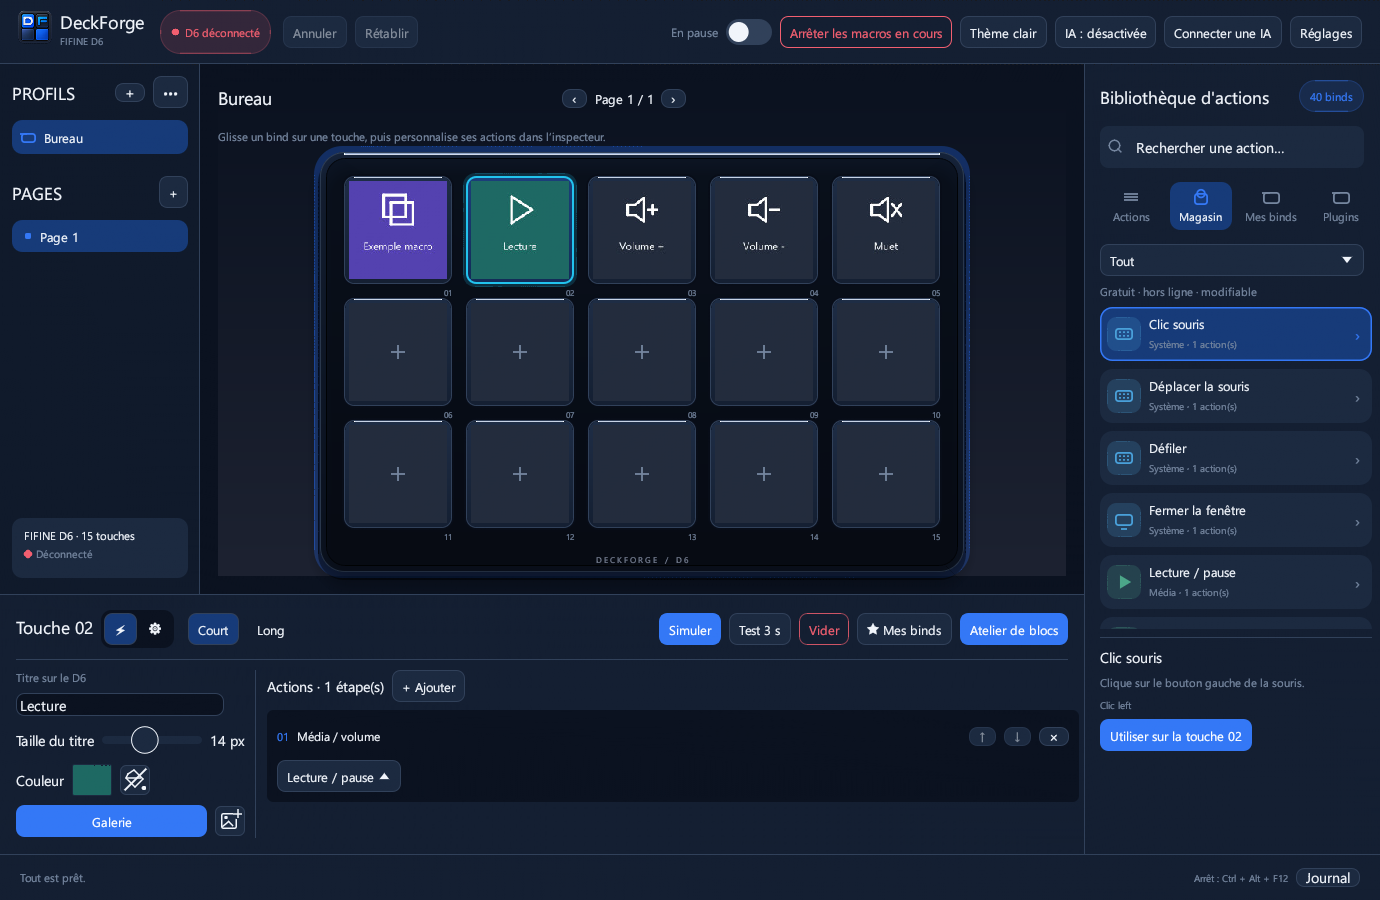
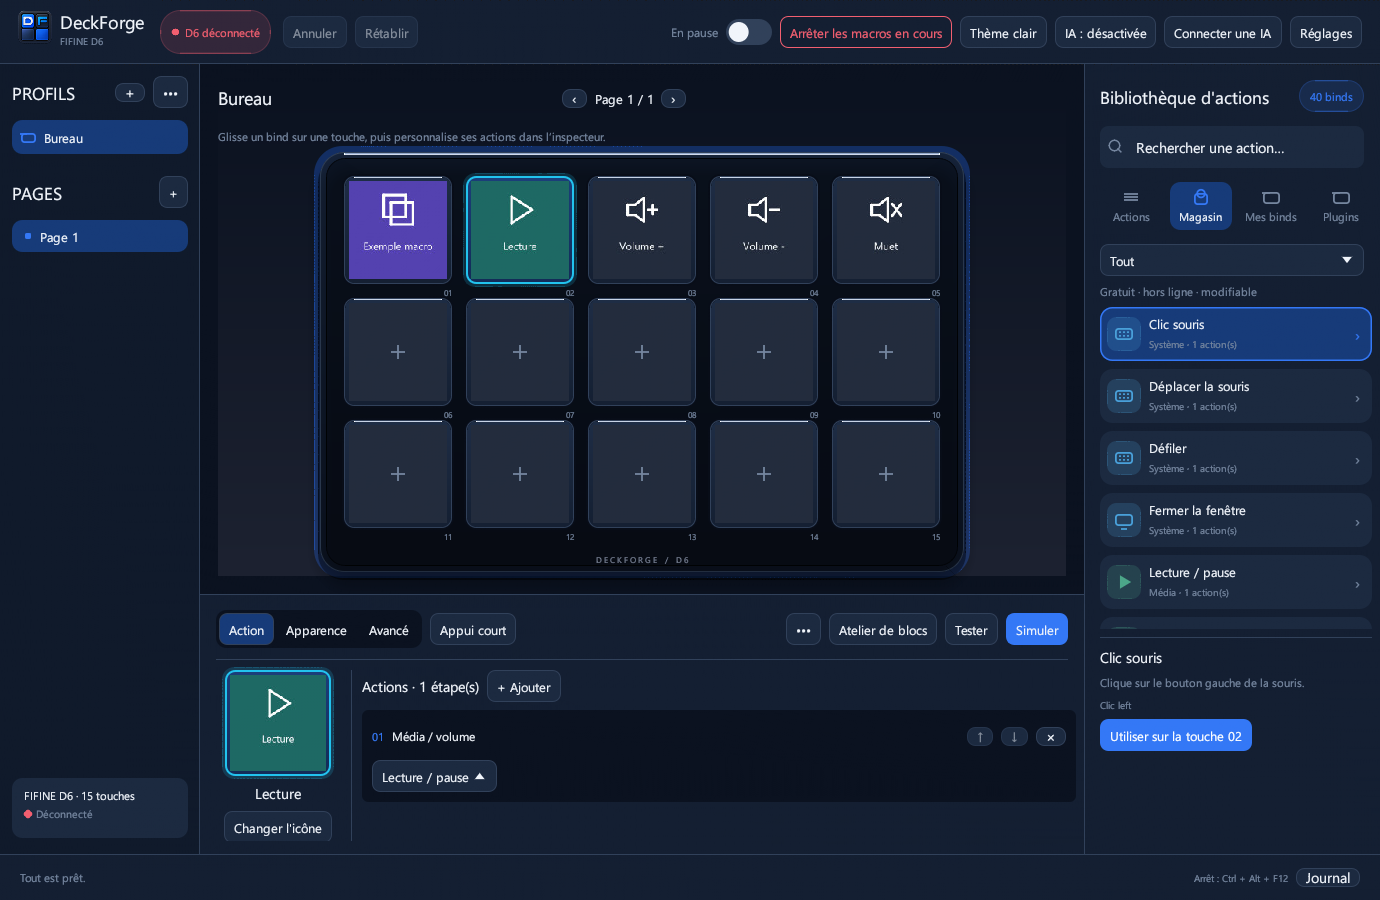
DeckForge 0.5.1: README, screenshots, version

diff --git a/README.md b/README.md
@@ -1,4 +1,4 @@
-# DeckForge 0.5.0 — version de test Windows
+# DeckForge 0.5.1 — version de test Windows
 
 <img src="res/branding/deckforge-logo.png" width="96" align="right" alt="Logo DeckForge">
 
@@ -7,6 +7,17 @@ Application Rust indépendante pour le FIFINE AmpliGame D6 (USB 3142:0060) : mac
 ![Interface](docs/interface.png)
 
 Pour connecter Claude Desktop, Claude Code, Codex CLI ou Cursor sans éditer de fichier : bouton **IA** dans la barre → **Connecter une IA**. Voir [le guide MCP](docs/MCP.md).
+
+## Nouveautés 0.5.1
+
+- **Inspecteur complet** : onglets Action / Apparence / Avancé, grand aperçu de la touche, mise en page sûre à 125 % et 150 % (petits écrans compris).
+- **Touche selon l'état réel** : titre, icône et couleur suivent une condition (micro coupé = icône rouge, application muette, casque branché), même si l'état change hors de DeckForge.
+- **Variables** : blocs Calculer (compteurs, aléatoire) et Texte ; variables enregistrées entre les redémarrages (Réglages → Variables enregistrées) ; `{nom}`, `{date}`, `{heure}`, `{horodatage}`, `{presse_papiers}` dans les textes, liens, arguments et requêtes.
+- **Presse-papiers** : copier, lire, sauvegarder / restaurer, modèle « Coller sans mise en forme ».
+- **Clavier et souris** : maintenir une touche (relâchée automatiquement en fin de macro, à l'arrêt et à la fermeture), clic / déplacement relatifs à une fenêtre ou au curseur, défilement horizontal.
+- **Fenêtres** : activer, réduire, agrandir, déplacer, redimensionner, envoyer sur un autre écran, toujours au premier plan ; « Lancer une application » peut activer celle déjà ouverte.
+- **Déclencheurs automatiques** : ouverture / fermeture d'une application, heure fixe, minuteur, branchement d'un périphérique audio (Réglages → Windows et raccourcis).
+- **Contrôle d'exécution par touche** : ignorer, relancer ou mettre en file si la macro tourne déjà, anti-rebond.
 
 ## Nouveautés 0.5.0
 
